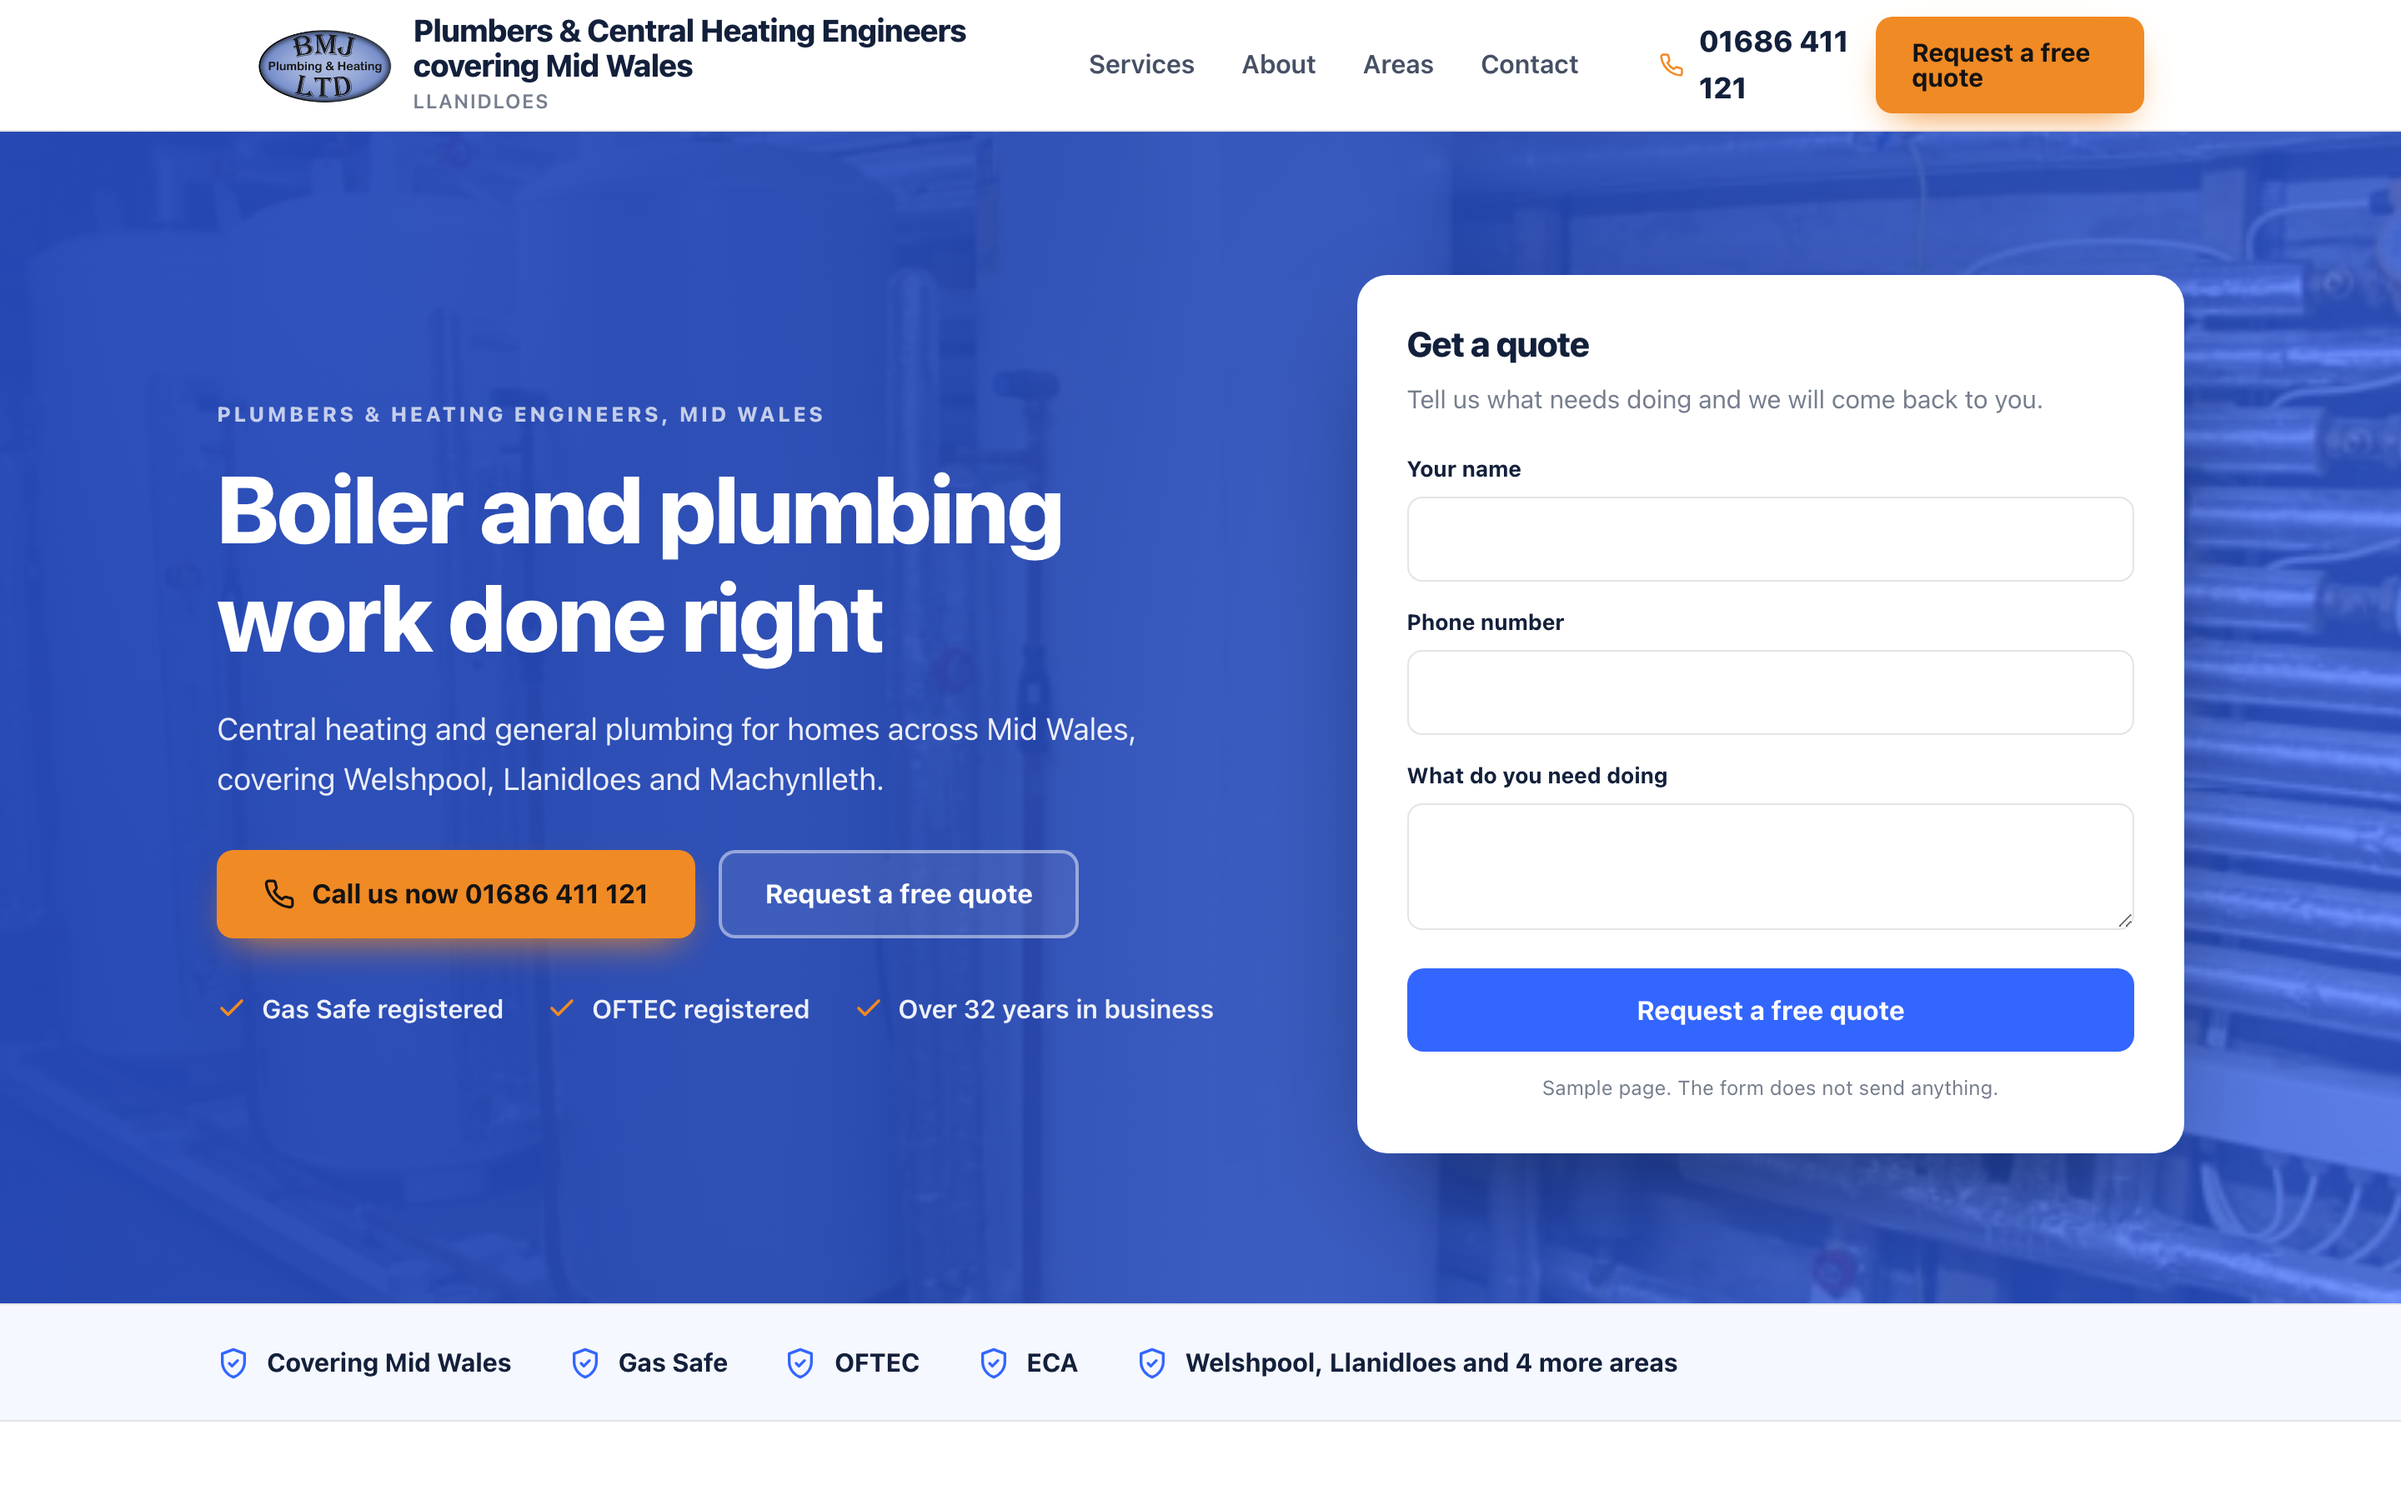
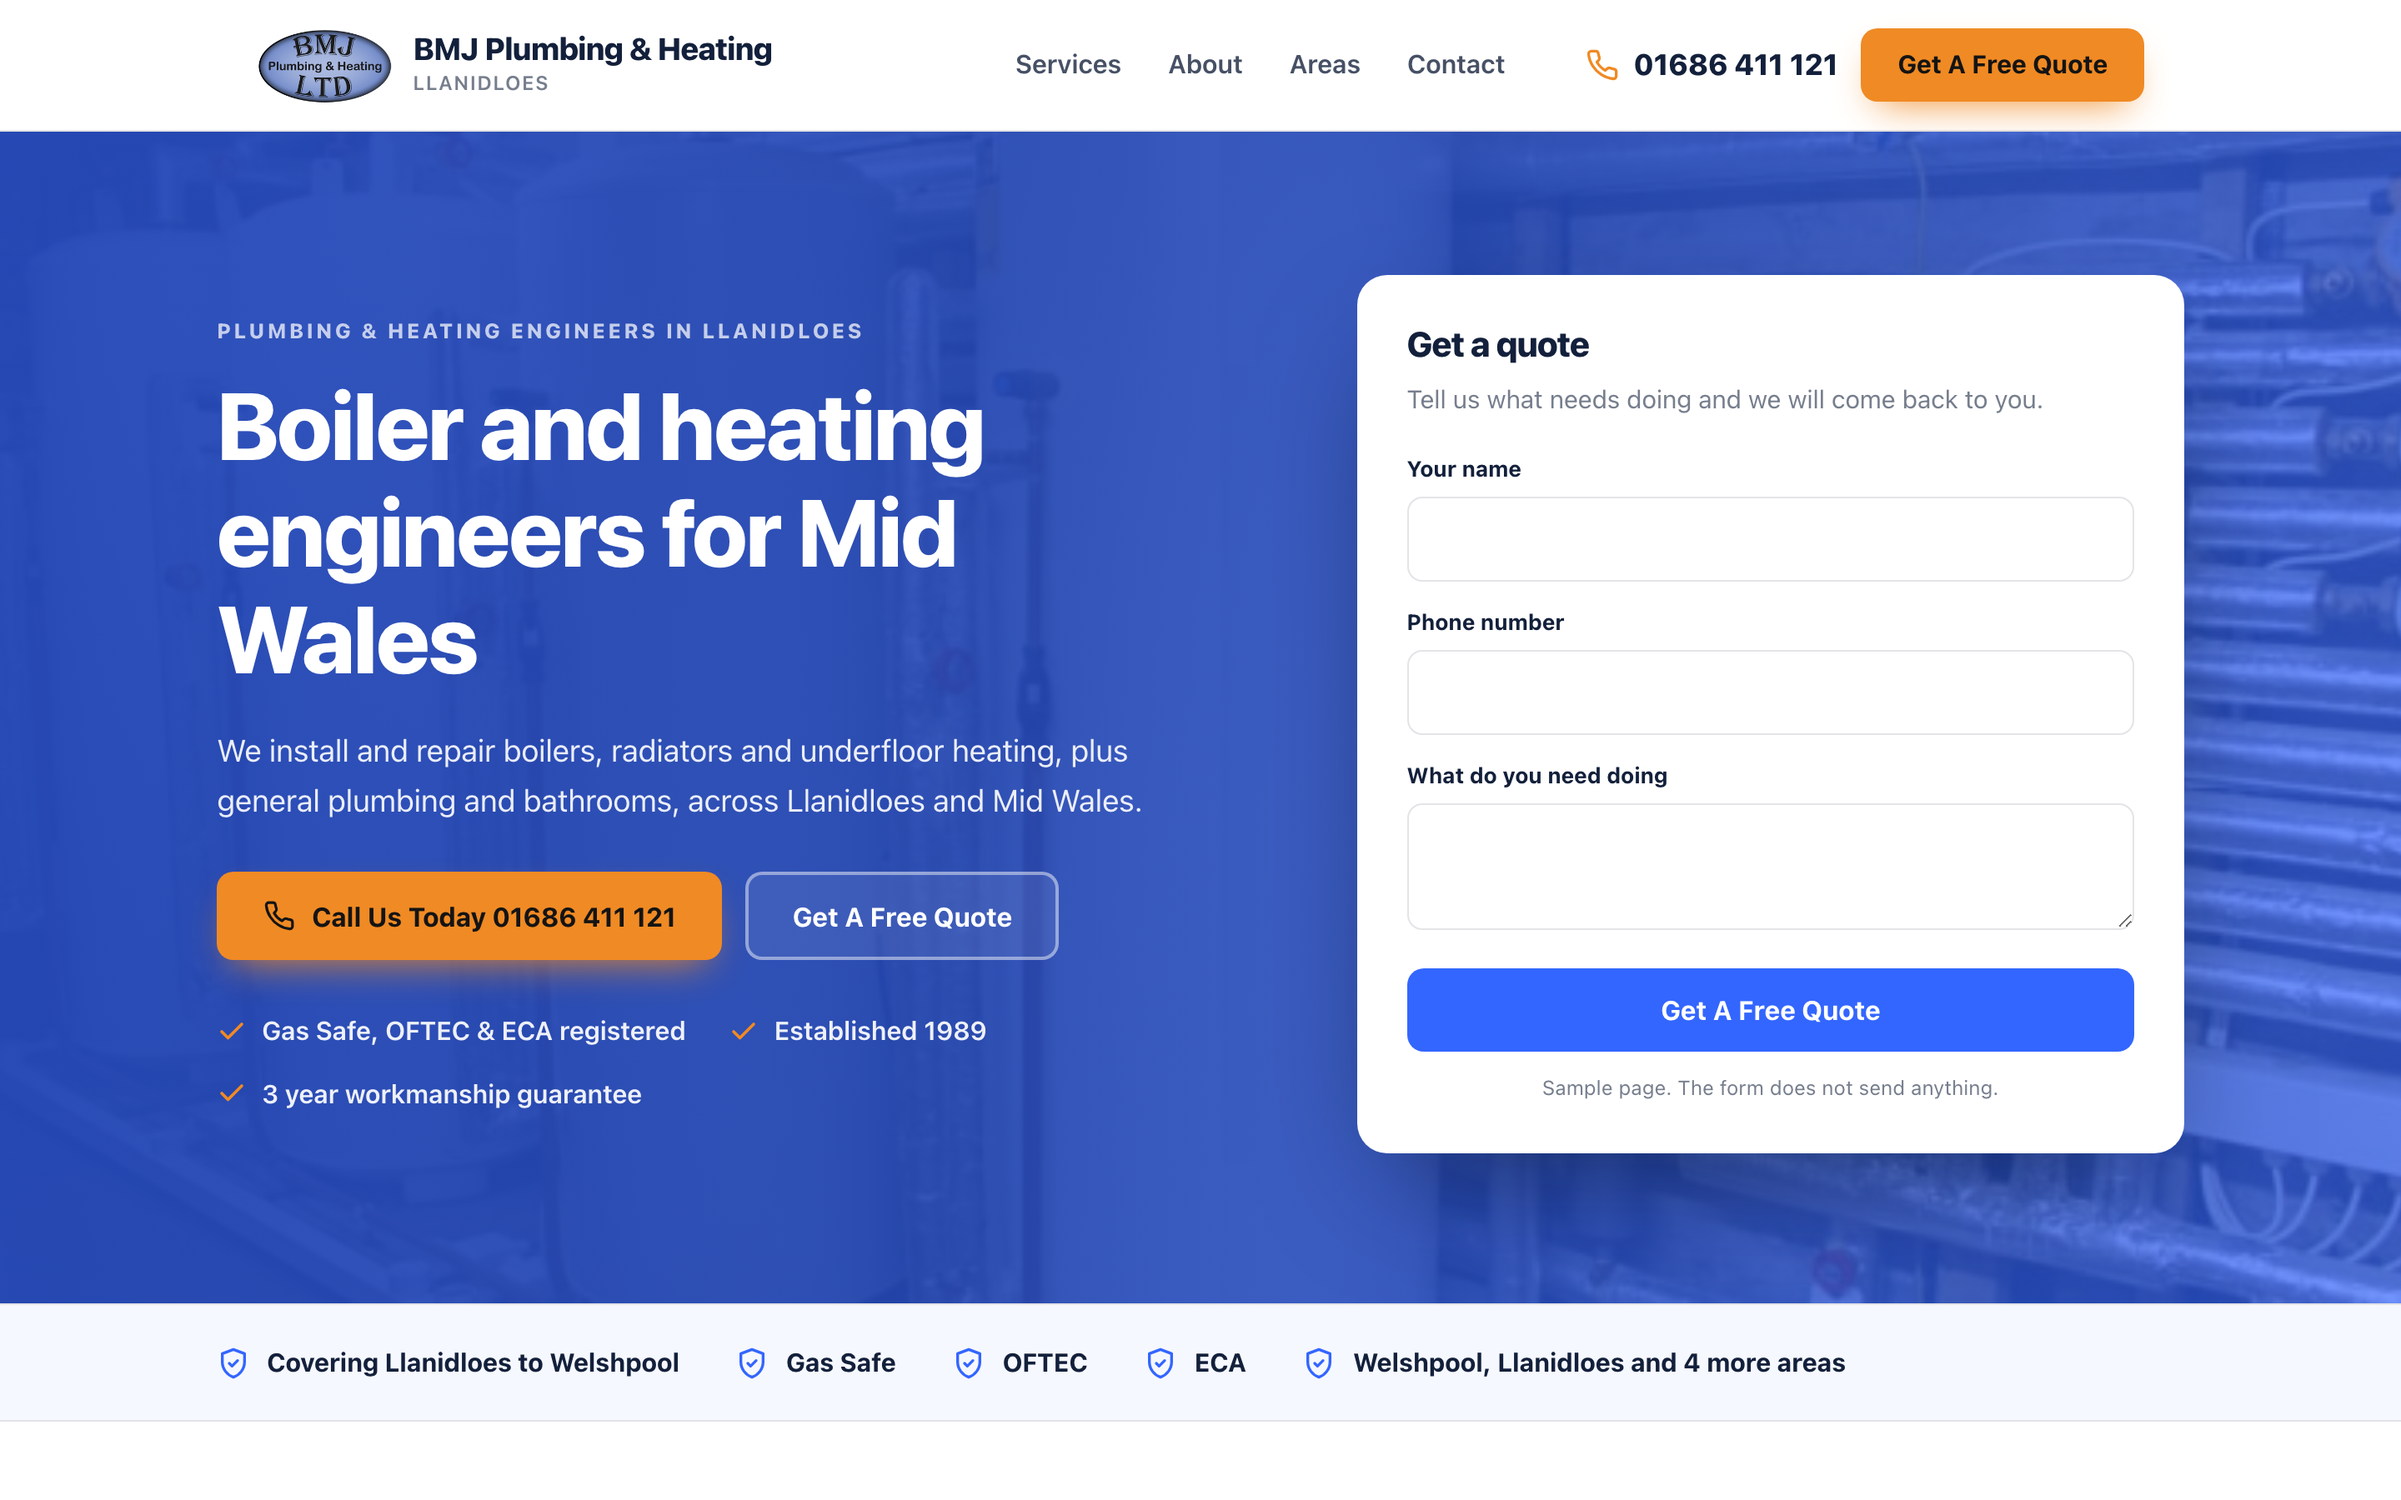
Sample homepage for BMJ Plumbing & Heating

diff --git a/docs/ce2e7be952/index.html b/docs/ce2e7be952/index.html
@@ -4,12 +4,12 @@
 <meta charset="utf-8">
 <meta name="viewport" content="width=device-width, initial-scale=1">
 <meta name="robots" content="noindex,nofollow">
-<title>Plumbers &amp; Central Heating Engineers covering Mid Wales sample homepage</title>
-<meta name="description" content="Central heating and general plumbing for homes across Mid Wales, covering Welshpool, Llanidloes and Machynlleth.">
+<title>BMJ Plumbing &amp; Heating sample homepage</title>
+<meta name="description" content="We install and repair boilers, radiators and underfloor heating, plus general plumbing and bathrooms, across Llanidloes and Mid Wales.">
 <link rel="canonical" href="https://markygff.github.io/aso-mockups/ce2e7be952/">
 <meta property="og:type" content="website">
-<meta property="og:title" content="Plumbers &amp; Central Heating Engineers covering Mid Wales sample homepage">
-<meta property="og:description" content="Central heating and general plumbing for homes across Mid Wales, covering Welshpool, Llanidloes and Machynlleth.">
+<meta property="og:title" content="BMJ Plumbing &amp; Heating sample homepage">
+<meta property="og:description" content="We install and repair boilers, radiators and underfloor heating, plus general plumbing and bathrooms, across Llanidloes and Mid Wales.">
 <meta property="og:url" content="https://markygff.github.io/aso-mockups/ce2e7be952/">
 <meta property="og:image" content="https://www.bmjplumbing-heating.co.uk/images/slideshow1.jpg"><style>
 :root{
@@ -119,8 +119,8 @@ p{margin:0}
 <header class="header">
   <div class="wrap header-in">
     <div class="brand">
-<img src="https://www.bmjplumbing-heating.co.uk/images/logo.png" alt="Plumbers &amp; Central Heating Engineers covering Mid Wales logo">      <div>
-        <div class="brand-name">Plumbers &amp; Central Heating Engineers covering Mid Wales</div>
+<img src="https://www.bmjplumbing-heating.co.uk/images/logo.png" alt="BMJ Plumbing &amp; Heating logo">      <div>
+        <div class="brand-name">BMJ Plumbing &amp; Heating</div>
 <div class="brand-sub">Llanidloes</div>      </div>
     </div>
     <nav class="nav">
@@ -128,7 +128,7 @@ p{margin:0}
     </nav>
     <div class="header-cta">
       <span class="tel"><svg viewBox="0 0 24 24" fill="none" stroke="currentColor" stroke-width="2" stroke-linecap="round" stroke-linejoin="round" aria-hidden="true"><path d="M22 16.9v3a2 2 0 0 1-2.2 2 19.8 19.8 0 0 1-8.6-3.1 19.5 19.5 0 0 1-6-6 19.8 19.8 0 0 1-3.1-8.7A2 2 0 0 1 4.1 2h3a2 2 0 0 1 2 1.7c.1 1 .4 1.9.7 2.8a2 2 0 0 1-.5 2.1L8.1 9.9a16 16 0 0 0 6 6l1.3-1.2a2 2 0 0 1 2.1-.5c.9.3 1.8.6 2.8.7a2 2 0 0 1 1.7 2z"/></svg><span>01686 411 121</span></span>
-      <span class="btn btn-accent">Request a free quote</span>
+      <span class="btn btn-accent">Get A Free Quote</span>
     </div>
   </div>
 </header>
@@ -137,15 +137,15 @@ p{margin:0}
   <div class="hero-bg"><img src="https://www.bmjplumbing-heating.co.uk/images/slideshow1.jpg" alt="Plumbing" width="1600" height="900"></div>
   <div class="wrap hero-in">
     <div>
-      <p class="eyebrow">Plumbers &amp; Heating Engineers, Mid Wales</p>
-      <h1>Boiler and plumbing work done right</h1>
-      <p class="hero-sub">Central heating and general plumbing for homes across Mid Wales, covering Welshpool, Llanidloes and Machynlleth.</p>
+      <p class="eyebrow">Plumbing &amp; heating engineers in Llanidloes</p>
+      <h1>Boiler and heating engineers for Mid Wales</h1>
+      <p class="hero-sub">We install and repair boilers, radiators and underfloor heating, plus general plumbing and bathrooms, across Llanidloes and Mid Wales.</p>
       <div class="hero-actions">
-        <span class="btn btn-accent"><svg viewBox="0 0 24 24" fill="none" stroke="currentColor" stroke-width="2" stroke-linecap="round" stroke-linejoin="round" aria-hidden="true"><path d="M22 16.9v3a2 2 0 0 1-2.2 2 19.8 19.8 0 0 1-8.6-3.1 19.5 19.5 0 0 1-6-6 19.8 19.8 0 0 1-3.1-8.7A2 2 0 0 1 4.1 2h3a2 2 0 0 1 2 1.7c.1 1 .4 1.9.7 2.8a2 2 0 0 1-.5 2.1L8.1 9.9a16 16 0 0 0 6 6l1.3-1.2a2 2 0 0 1 2.1-.5c.9.3 1.8.6 2.8.7a2 2 0 0 1 1.7 2z"/></svg>Call us now 01686 411 121</span>
-        <span class="btn btn-ghost">Request a free quote</span>
+        <span class="btn btn-accent"><svg viewBox="0 0 24 24" fill="none" stroke="currentColor" stroke-width="2" stroke-linecap="round" stroke-linejoin="round" aria-hidden="true"><path d="M22 16.9v3a2 2 0 0 1-2.2 2 19.8 19.8 0 0 1-8.6-3.1 19.5 19.5 0 0 1-6-6 19.8 19.8 0 0 1-3.1-8.7A2 2 0 0 1 4.1 2h3a2 2 0 0 1 2 1.7c.1 1 .4 1.9.7 2.8a2 2 0 0 1-.5 2.1L8.1 9.9a16 16 0 0 0 6 6l1.3-1.2a2 2 0 0 1 2.1-.5c.9.3 1.8.6 2.8.7a2 2 0 0 1 1.7 2z"/></svg>Call Us Today 01686 411 121</span>
+        <span class="btn btn-ghost">Get A Free Quote</span>
       </div>
       <ul class="hero-bullets">
-<li><svg viewBox="0 0 24 24" fill="none" stroke="currentColor" stroke-width="2.4" stroke-linecap="round" stroke-linejoin="round" aria-hidden="true"><path d="M20 6 9 17l-5-5"/></svg><span>Gas Safe registered</span></li><li><svg viewBox="0 0 24 24" fill="none" stroke="currentColor" stroke-width="2.4" stroke-linecap="round" stroke-linejoin="round" aria-hidden="true"><path d="M20 6 9 17l-5-5"/></svg><span>OFTEC registered</span></li><li><svg viewBox="0 0 24 24" fill="none" stroke="currentColor" stroke-width="2.4" stroke-linecap="round" stroke-linejoin="round" aria-hidden="true"><path d="M20 6 9 17l-5-5"/></svg><span>Over 32 years in business</span></li>      </ul>
+<li><svg viewBox="0 0 24 24" fill="none" stroke="currentColor" stroke-width="2.4" stroke-linecap="round" stroke-linejoin="round" aria-hidden="true"><path d="M20 6 9 17l-5-5"/></svg><span>Gas Safe, OFTEC &amp; ECA registered</span></li><li><svg viewBox="0 0 24 24" fill="none" stroke="currentColor" stroke-width="2.4" stroke-linecap="round" stroke-linejoin="round" aria-hidden="true"><path d="M20 6 9 17l-5-5"/></svg><span>Established 1989</span></li><li><svg viewBox="0 0 24 24" fill="none" stroke="currentColor" stroke-width="2.4" stroke-linecap="round" stroke-linejoin="round" aria-hidden="true"><path d="M20 6 9 17l-5-5"/></svg><span>3 year workmanship guarantee</span></li>      </ul>
     </div>
     <div class="quote-card">
       <h3>Get a quote</h3>
@@ -153,7 +153,7 @@ p{margin:0}
       <div class="field"><label>Your name</label><input type="text" disabled></div>
       <div class="field"><label>Phone number</label><input type="tel" disabled></div>
       <div class="field"><label>What do you need doing</label><textarea disabled></textarea></div>
-      <span class="btn btn-primary">Request a free quote</span>
+      <span class="btn btn-primary">Get A Free Quote</span>
       <p class="sample-note">Sample page. The form does not send anything.</p>
     </div>
   </div>
@@ -161,7 +161,7 @@ p{margin:0}
 
 <div class="strip">
   <div class="wrap strip-in">
-    <div class="strip-item"><svg viewBox="0 0 24 24" fill="none" stroke="currentColor" stroke-width="2" stroke-linecap="round" stroke-linejoin="round" aria-hidden="true"><path d="M12 2 4 5v6c0 5 3.4 9.4 8 11 4.6-1.6 8-6 8-11V5z"/><path d="m9 12 2 2 4-4"/></svg><span>Covering Mid Wales</span></div>
+    <div class="strip-item"><svg viewBox="0 0 24 24" fill="none" stroke="currentColor" stroke-width="2" stroke-linecap="round" stroke-linejoin="round" aria-hidden="true"><path d="M12 2 4 5v6c0 5 3.4 9.4 8 11 4.6-1.6 8-6 8-11V5z"/><path d="m9 12 2 2 4-4"/></svg><span>Covering Llanidloes to Welshpool</span></div>
     <div class="strip-item"><svg viewBox="0 0 24 24" fill="none" stroke="currentColor" stroke-width="2" stroke-linecap="round" stroke-linejoin="round" aria-hidden="true"><path d="M12 2 4 5v6c0 5 3.4 9.4 8 11 4.6-1.6 8-6 8-11V5z"/><path d="m9 12 2 2 4-4"/></svg><span>Gas Safe</span></div>
     <div class="strip-item"><svg viewBox="0 0 24 24" fill="none" stroke="currentColor" stroke-width="2" stroke-linecap="round" stroke-linejoin="round" aria-hidden="true"><path d="M12 2 4 5v6c0 5 3.4 9.4 8 11 4.6-1.6 8-6 8-11V5z"/><path d="m9 12 2 2 4-4"/></svg><span>OFTEC</span></div>
     <div class="strip-item"><svg viewBox="0 0 24 24" fill="none" stroke="currentColor" stroke-width="2" stroke-linecap="round" stroke-linejoin="round" aria-hidden="true"><path d="M12 2 4 5v6c0 5 3.4 9.4 8 11 4.6-1.6 8-6 8-11V5z"/><path d="m9 12 2 2 4-4"/></svg><span>ECA</span></div>
@@ -173,14 +173,14 @@ p{margin:0}
   <div class="wrap">
     <div class="services-head">
       <p class="eyebrow">What we do</p>
-      <h2>Plumbers &amp; Central Heating Engineers covering Mid Wales, Llanidloes</h2>
-      <p>Central heating and general plumbing for homes across Mid Wales, covering Welshpool, Llanidloes and Machynlleth.</p>
+      <h2>BMJ Plumbing &amp; Heating, Llanidloes</h2>
+      <p>We install and repair boilers, radiators and underfloor heating, plus general plumbing and bathrooms, across Llanidloes and Mid Wales.</p>
     </div>
     <div class="grid">
       <article class="card">
         <div class="icon"><svg viewBox="0 0 24 24" fill="none" stroke="currentColor" stroke-width="2" stroke-linecap="round" stroke-linejoin="round" aria-hidden="true"><path d="M14.7 6.3a4 4 0 0 0 5.3 5.3l-8 8a3 3 0 0 1-4.2-4.2z"/><path d="m14.7 6.3 3-3"/></svg></div>
         <h3>Boilers</h3>
-        <p>Installation, service and repair of gas and oil boilers.</p>
+        <p>New boiler installs plus servicing and repairs, gas and oil.</p>
       </article>
       <article class="card">
         <div class="icon"><svg viewBox="0 0 24 24" fill="none" stroke="currentColor" stroke-width="2" stroke-linecap="round" stroke-linejoin="round" aria-hidden="true"><path d="M13 2 4 14h7l-1 8 9-12h-7z"/></svg></div>
@@ -190,12 +190,12 @@ p{margin:0}
       <article class="card">
         <div class="icon"><svg viewBox="0 0 24 24" fill="none" stroke="currentColor" stroke-width="2" stroke-linecap="round" stroke-linejoin="round" aria-hidden="true"><path d="M3 10.5 12 3l9 7.5"/><path d="M5 9.5V21h14V9.5"/><path d="M10 21v-6h4v6"/></svg></div>
         <h3>General Plumbing</h3>
-        <p>All types of general plumbing work, done properly.</p>
+        <p>General plumbing work for homes across the area.</p>
       </article>
       <article class="card">
         <div class="icon"><svg viewBox="0 0 24 24" fill="none" stroke="currentColor" stroke-width="2" stroke-linecap="round" stroke-linejoin="round" aria-hidden="true"><path d="M4 20 15 9"/><path d="m14 4 6 6-3 3-6-6z"/><path d="m3 15 6 6"/></svg></div>
         <h3>Bathrooms</h3>
-        <p>Quality bathroom installations and refurbishments.</p>
+        <p>Bathroom installations and renovations, done to a high standard.</p>
       </article>
     </div>
   </div>
@@ -203,7 +203,7 @@ p{margin:0}
 
 <footer class="footer">
   <div class="wrap footer-in">
-    <span>Sample built for Plumbers &amp; Central Heating Engineers covering Mid Wales from your public website. Not live. Tell us and we delete it.</span>
+    <span>Sample built for BMJ Plumbing &amp; Heating from your public website. Not live. Tell us and we delete it.</span>
     <span>bmjplumbing-heating.co.uk</span>
   </div>
 </footer>
